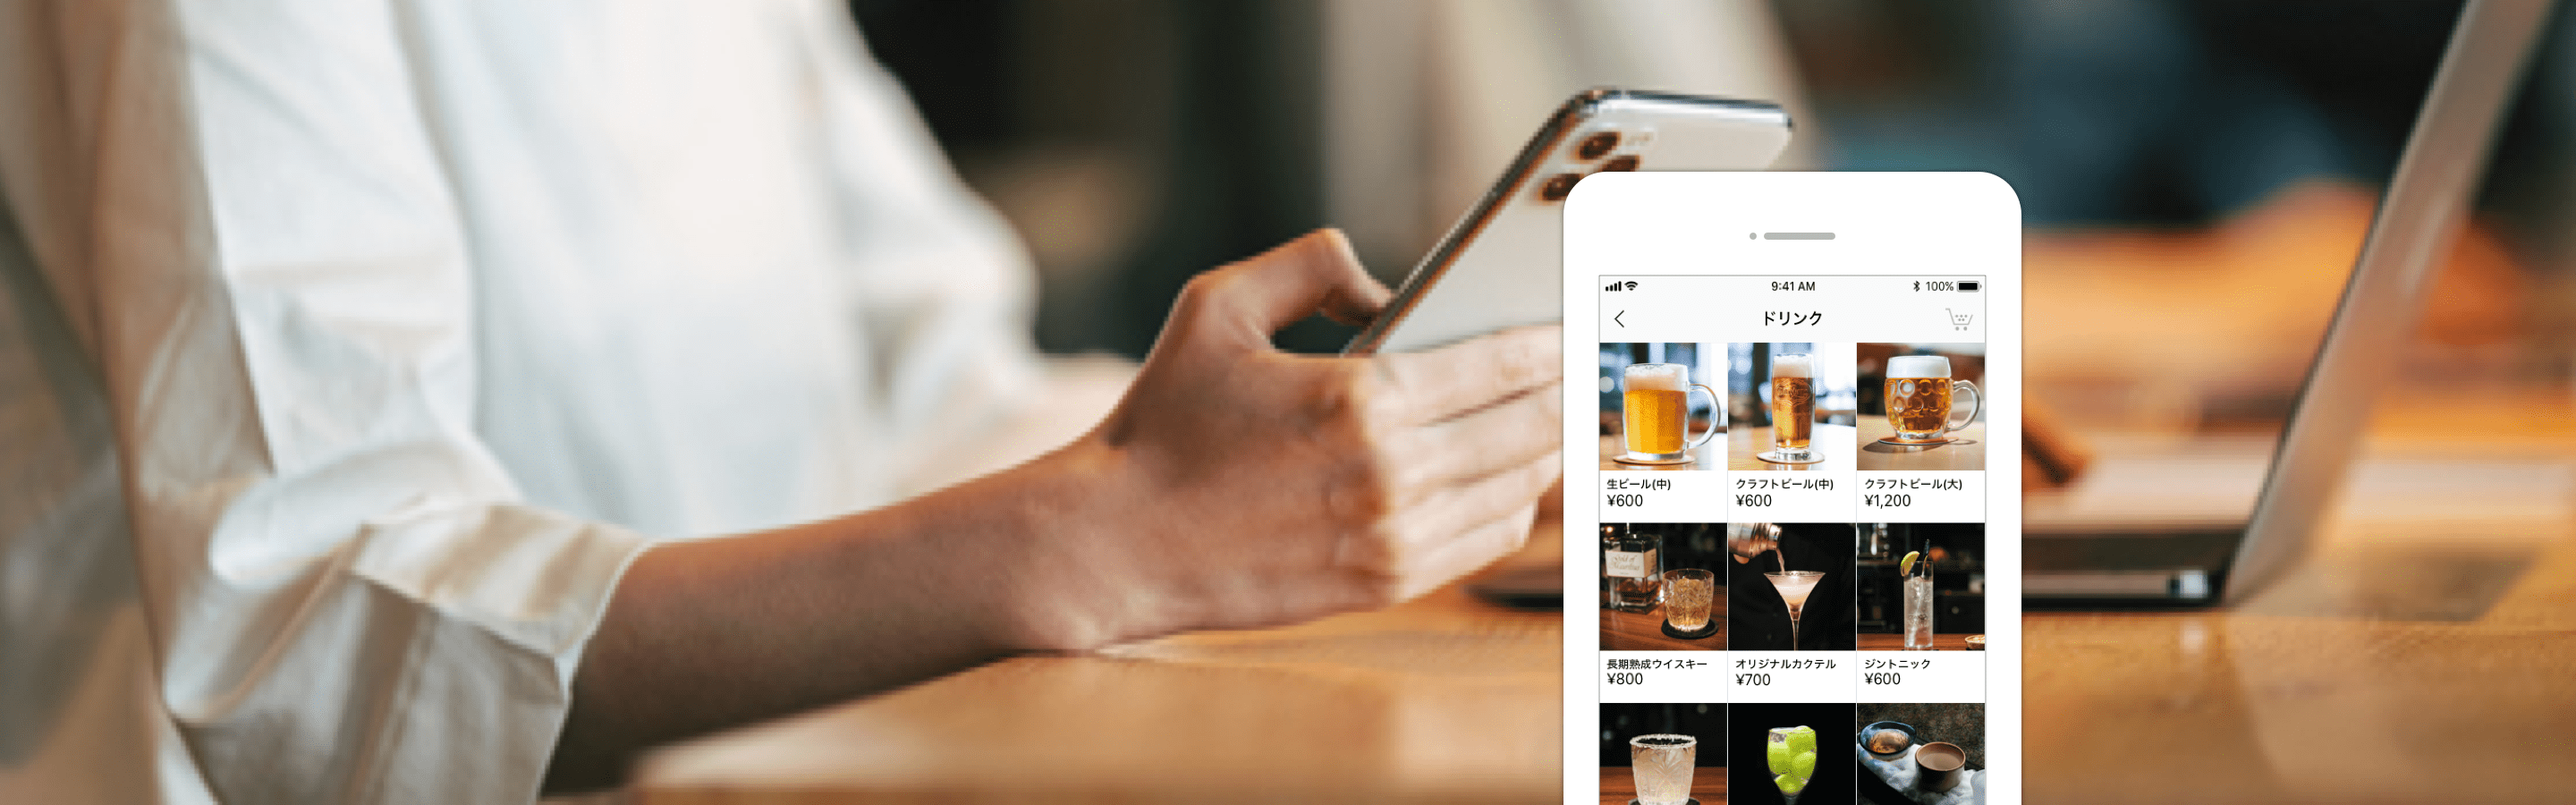
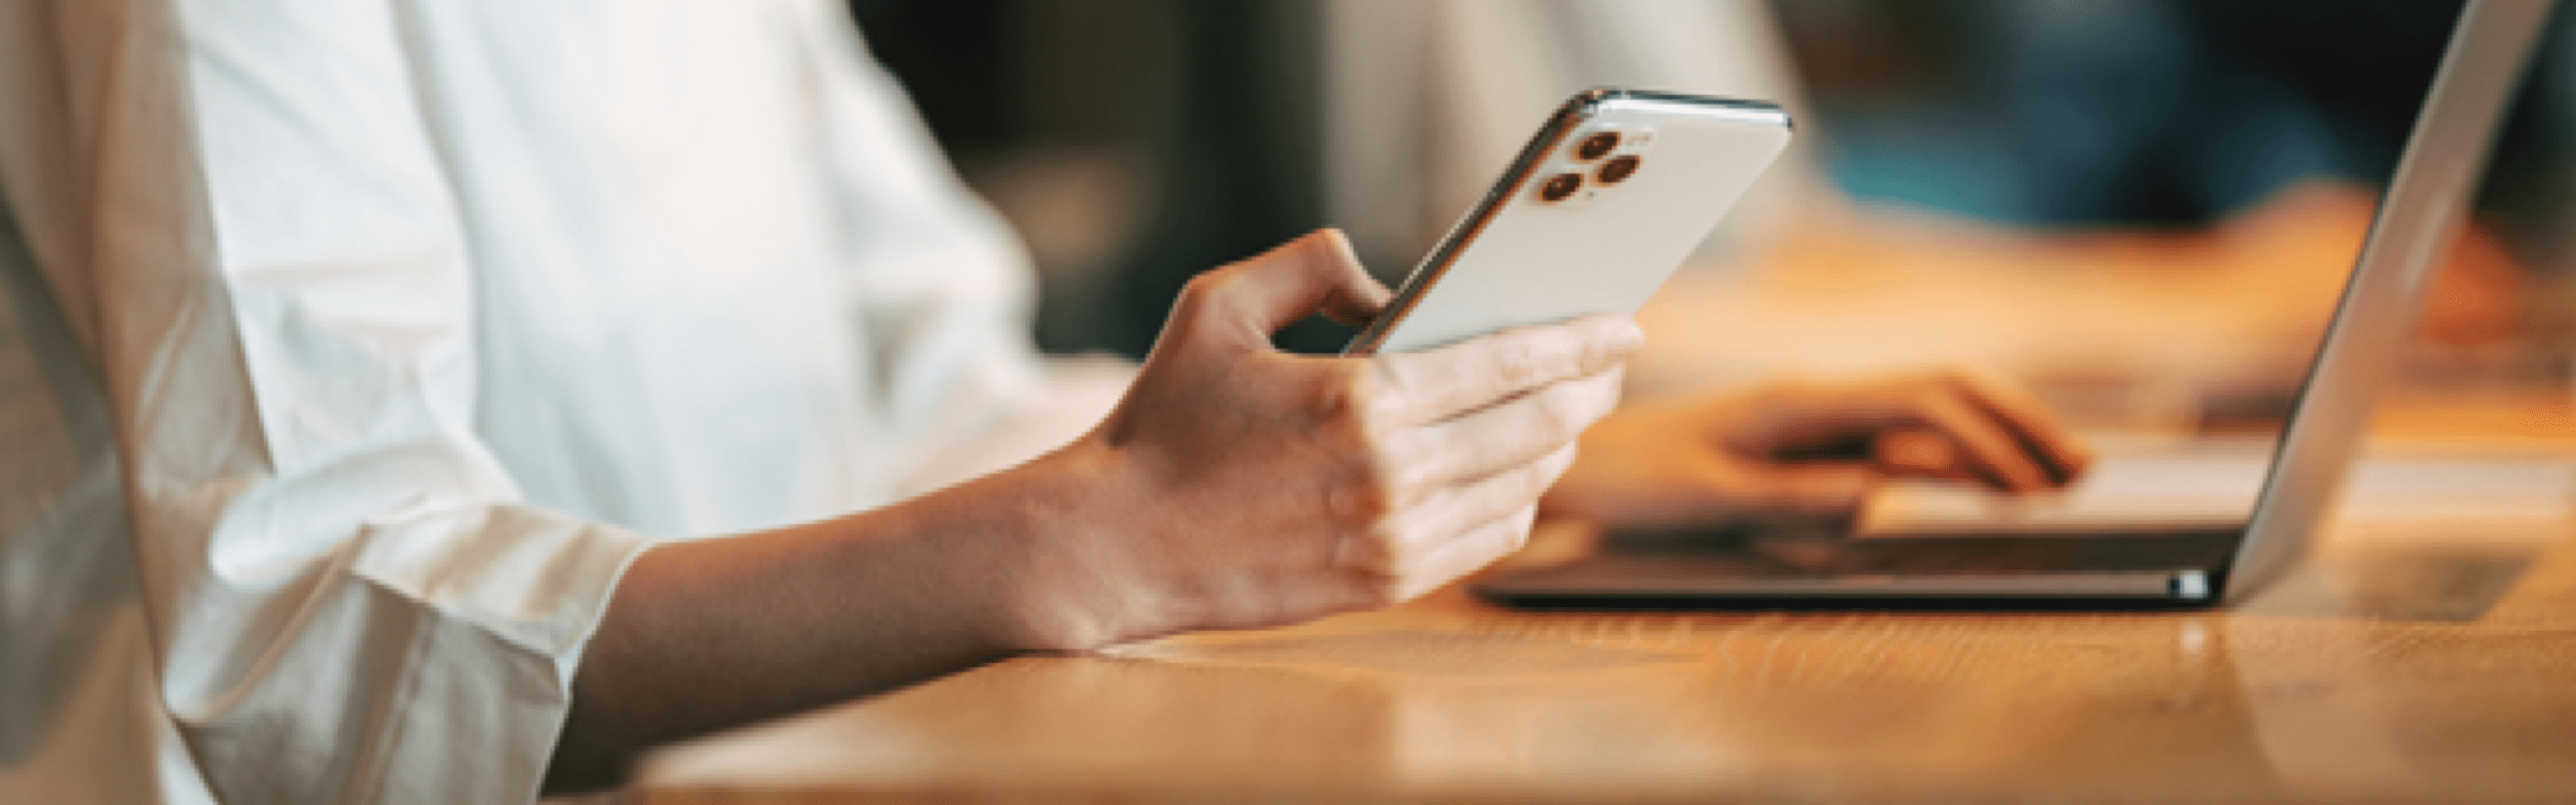
change

Changed region(s): [[0.5938, 0.1867, 0.8125, 1.0], [0.9688, 0.4978, 1.0, 0.5289]]

diff --git a/source/content/common/css/option.css b/source/content/common/css/option.css
@@ -4,17 +4,19 @@
     max-width: inherit;
     margin-bottom: inherit;
 }
-.mobile-order {
 
+.banner-image {
+  display: flex;
+  flex-direction: column;
 }
-
 .banner-image .content {
+  order: 1;
   display: flex;
   flex-direction: row;
   justify-content: center;
   max-width: 1040px;
   margin: auto;
-  padding: 80px 0;
+  padding: 80px 5%;
 }
 
 .banner-image .content .content-description {
@@ -27,19 +29,25 @@
   font-size: 28px;
   font-weight: bold;
   margin-bottom: 16px;
+  margin-top: 5px;
 }
 
+.banner-image .content .content-description >p {
+  font-size: 15px;
+  font-weight: normal;
+  font-stretch: normal;
+  font-style: normal;
+  line-height: 1.47;
+  letter-spacing: normal;
+  color: #606060;
+}
 .banner-image .content figure >img {
-    width: 285px;
-    height: 270px;
+    width: 200px;
+    height: 210px;
 }
 
 .label {
-  max-width: inherit;
-  width: 200px;
-  height: 32px;
-  padding: 10px 16px 8px;
-  border: solid 1px #606060;
+  width: fit-content;
   font-size: 14px;
   font-weight: normal;
   font-stretch: normal;
@@ -48,27 +56,47 @@
   letter-spacing: normal;
   text-align: center;
   color: #606060;
+  border: solid 1px #606060;
+  padding: 4px 16px;
 }
 
-.mobile_order .inr {
-  background: url('../img/option/mobile-order/mobile_order_bg.png') no-repeat;
+.content figure {
+  display: flex;
+  flex-direction: column;
+  justify-content: flex-end;
+}
+
+.mobile-order .inr {
+  background: url('../img/option/mobile-order/mobile_order_bg_pc.png') no-repeat;
   background-size: cover;
   background-color: #FFFFFF;
-  width: 100%;
-  height: 450px;
+  min-height: 450px;
+  display: flex;
+  flex-direction: column;
+  justify-content: flex-end;
+  overflow: hidden;
 }
 
-.mobile_order .content figure {
+.inr figure {
+  width: 265px;
+  height: 360px;
+  margin-left: 60%;
+  margin-bottom: 0px;
+}
+
+.mobile-order .content figure {
   order: 1;
   margin-left: 80px;
 }
 
 .uber-eats .inr {
-  background: url('../img/option/uber-eats/uber_eats_bg.png') no-repeat;
+  background: url('../img/option/uber-eats/uber_eats_bg_pc.png') no-repeat;
   background-size: cover;
   background-color: #FFFFFF;
-  width: 100%;
-  height: 450px;
+  min-height: 450px;
+  display: flex;
+  flex-direction: column;
+  justify-content: flex-end;
 }
 
 .uber-eats .content figure {
@@ -78,31 +106,20 @@
 
 
 .take-out .inr {
-  background: url('../img/option/take-out/take_out_bg.png') no-repeat;
+  background: url('../img/option/take-out/take_out_bg_pc.png') no-repeat;
   background-size: cover;
   background-color: #FFFFFF;
-  width: 100%;
-  height: 450px;
-}
-
-.take_out .content figure {
-  order: 1;
-  margin-left: 80px;
-}
-
-.others .inr .service-list ul li {
-  display: flex;
-  flex-direction: row;
-  justify-content: flex-start;
-  align-items: center;
-  border-bottom: 1px solid #d4d4d4;
-}
-.others .inr .service-list ul li figure {
+  min-height: 450px;
   display: flex;
   flex-direction: column;
-  justify-content: center;
-  width: 300px;
-  height: 200px;
+  justify-content: flex-end;
+  overflow: hidden;
+}
+
+.take-out .content figure {
+  order: 1;
+  margin-left: 80px;
+  padding: 50px;
 }
 
 .others {
@@ -112,9 +129,12 @@
   justify-content: center;
   border-top: 1px solid #d4d4d4;
   margin-bottom: 100px;
+  padding: 0px 80px;
 }
 
 .others .inr h2{
+  margin-top: 80px;
+  margin-bottom: 72px;
   font-size: 28px;
   font-weight: normal;
   font-stretch: normal;
@@ -125,6 +145,79 @@
   color: #606060;
 }
 
+.others .inr .service-list ul li {
+  display: flex;
+  flex-direction: row;
+  justify-content: flex-start;
+  align-items: center;
+  border-bottom: 1px solid #d4d4d4;
+}
+.others .inr .service-list ul li div {
+  display: flex;
+  flex-direction: column;
+  justify-content: space-between;
+  align-items: flex-start;
+}
+
+.others .inr .service-list ul li div .text {
+  font-size: 15px;
+  font-weight: normal;
+  font-stretch: normal;
+  font-style: normal;
+  line-height: 1.47;
+  letter-spacing: normal;
+  color: #606060;
+}
+
+.others .inr .service-list ul li div a {
+  font-size: 14px;
+  font-weight: normal;
+  font-stretch: normal;
+  font-style: normal;
+  line-height: normal;
+  letter-spacing: normal;
+  color: #e77d29;
+  border-bottom: 1px solid #e77d29;
+}
+
+.others .inr .service-list ul li figure {
+  display: flex;
+  flex-direction: column;
+  justify-content: center;
+  padding: 10px;
+}
+.others .inr .service-list ul li figure img {
+  width: 280px;
+  height: 70px;
+}
+
+.modal {
+  display: none;
+  position: fixed;
+  z-index: 1;
+  padding-top: 100px;
+  left: 0;
+  top: 0;
+  width: 100%;
+  height: 100%;
+  overflow: auto;
+  background-color: rgba(0, 0, 0, 0.7);
+}
+.modal-content {
+  text-align: center;
+}
+.jms .modal-content img {
+  width: 394px;
+  height: 830px;
+}
+.intapay .modal-content img {
+  width: 396px;
+  height: 692px;
+}
+.glory .modal-content img {
+  width: 396px;
+  height: 692px;
+}
 
 
 
@@ -146,6 +239,72 @@ section .inr{
     /* padding-top: 32px; */
     /* margin-bottom: 5%; */
 }
+.content figure {
+  display: none;
+}
+.banner-image .content {
+  max-width: 414px;
+  margin: auto;
+  padding: 40px 5%;
+}
+
+.banner-image .content .content-description >h3 {
+  font-size: 22px;
+  font-weight: bold;
+  margin-top: 24px;
+}
+
+.banner-image .content .content-description >p {
+  font-size: 14px;
+}
+
+.label {
+  font-size: 14px;
+  align-self: center;
+}
+  .mobile-order .inr {
+    order: 2;
+    background: url('../img/option/mobile-order/mobile_order_bg_sp.png') no-repeat;
+    background-size: cover;
+    width: 100%;
+    background-color: #FFFFFF;
+    min-height: 220px;
+    display: flex;
+    align-items: center;
+  }
+  .banner-image .inr figure {
+    width: 136px;
+    height: 136px;
+    margin-left: 0px;
+    margin-bottom: 0px;
+  }
+
+  .uber-eats .inr {
+    order: 2;
+    background: url('../img/option/uber-eats/uber_eats_bg_sp.png') no-repeat;
+    background-size: cover;
+    background-color: #FFFFFF;
+    min-height: 220px;
+    display: flex;
+    align-items: center;
+  }
+
+  .take-out .inr {
+    order: 2;
+    background: url('../img/option/take-out/take_out_bg_sp.png') no-repeat;
+    background-size: cover;
+    width: 100%;
+    background-color: #FFFFFF;
+    min-height: 220px;
+    display: flex;
+    align-items: center;
+  }
+
+  .take-out .inr figure {
+    width: 136px;
+    height: 136px;
+    margin-bottom: 0px;
+  }
 }
 
 @media (min-width: 750px){

diff --git a/source/content/common/js/@option.js b/source/content/common/js/@option.js
@@ -1,0 +1,55 @@
+$(function(){
+  console.log("TEST");
+  var jms = $('.jms');
+  var intapay = $('.intapay');
+  var glory = $('.glory');
+  var jmsBtn = $('#jms-btn');
+  var intapayBtn = $('#intapay-btn');
+  var gloryBtn = $('#glory-btn');
+  var span = $('.close');
+  jmsBtn.click(function () {
+    jms.show();
+  });
+  intapayBtn.click(function () {
+    intapay.show();
+  });
+  gloryBtn.click(function () {
+    glory.show();
+  });
+
+  span.click(function () {
+    jms.hide();
+    intapay.hide();
+    glory.hide();
+  });
+
+  $(window).on('click', function (e) {
+    if ($(e.target).is('.modal')) {
+      jms.hide();
+      intapay.hide();
+      glory.hide();
+    }
+  });
+
+});
+
+$(function(){
+  var $setElem = $('.switch'),
+  pcName = '_pc',
+  spName = '_sp',
+  replaceWidth = 750;
+
+  $setElem.each(function(){
+  	var $this = $(this);
+  	function imgSize(){
+  		var windowWidth = parseInt($(window).width());
+  		if(windowWidth >= replaceWidth) {
+  			$this.attr('src',$this.attr('src').replace(spName,pcName)).css({visibility:'visible'});
+  		} else if(windowWidth < replaceWidth) {
+  			$this.attr('src',$this.attr('src').replace(pcName,spName)).css({visibility:'visible'});
+  		}
+  	}
+  	$(window).resize(function(){imgSize();});
+  	imgSize();
+  });
+});
